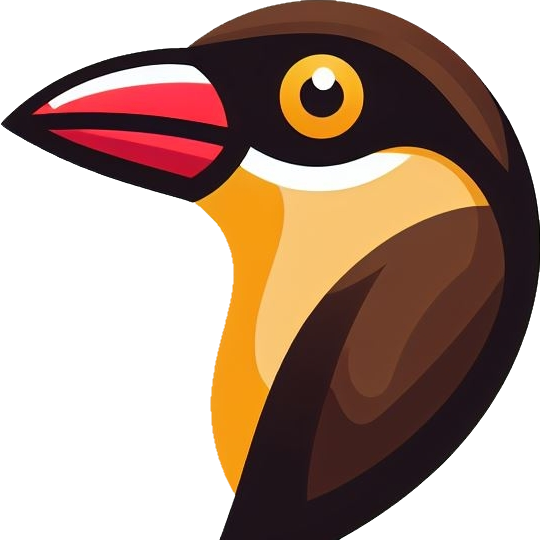
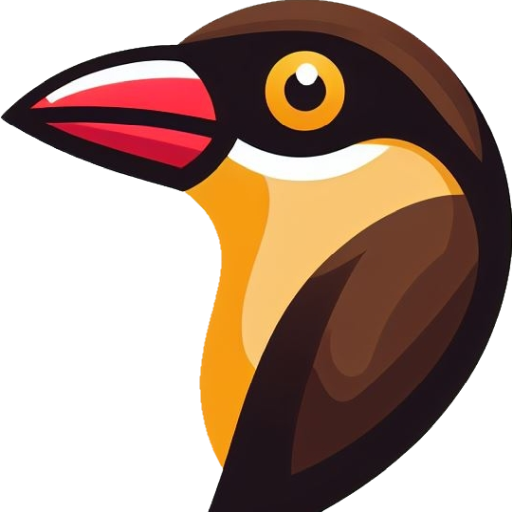
Moved Oxpecker image to main readme

diff --git a/README.md b/README.md
@@ -1,5 +1,7 @@
 # Oxpecker
 
+![Oxpecker](https://github.com/Lanayx/Oxpecker/raw/develop/images/oxpecker.png)
+
 * [Oxpecker Nuget package](https://www.nuget.org/packages/Oxpecker)
 * [Oxpecker.ViewEngine Nuget package](https://www.nuget.org/packages/Oxpecker.ViewEngine)
 * [Oxpecker.Htmx Nuget package](https://www.nuget.org/packages/Oxpecker.Htmx)

diff --git a/src/Oxpecker/README.md b/src/Oxpecker/README.md
@@ -1,7 +1,5 @@
 # Oxpecker
 
-![Oxpecker](https://github.com/Lanayx/Oxpecker/tree/develop/images/oxpecker.png)
-
 Oxpecker is an F# wrapper of ASP.NET Core Endpoint routing (also known as Minimal API) with easy to comprehend API, mostly inherited from Giraffe framework.
 
 [Nuget package](https://www.nuget.org/packages/Oxpecker)
